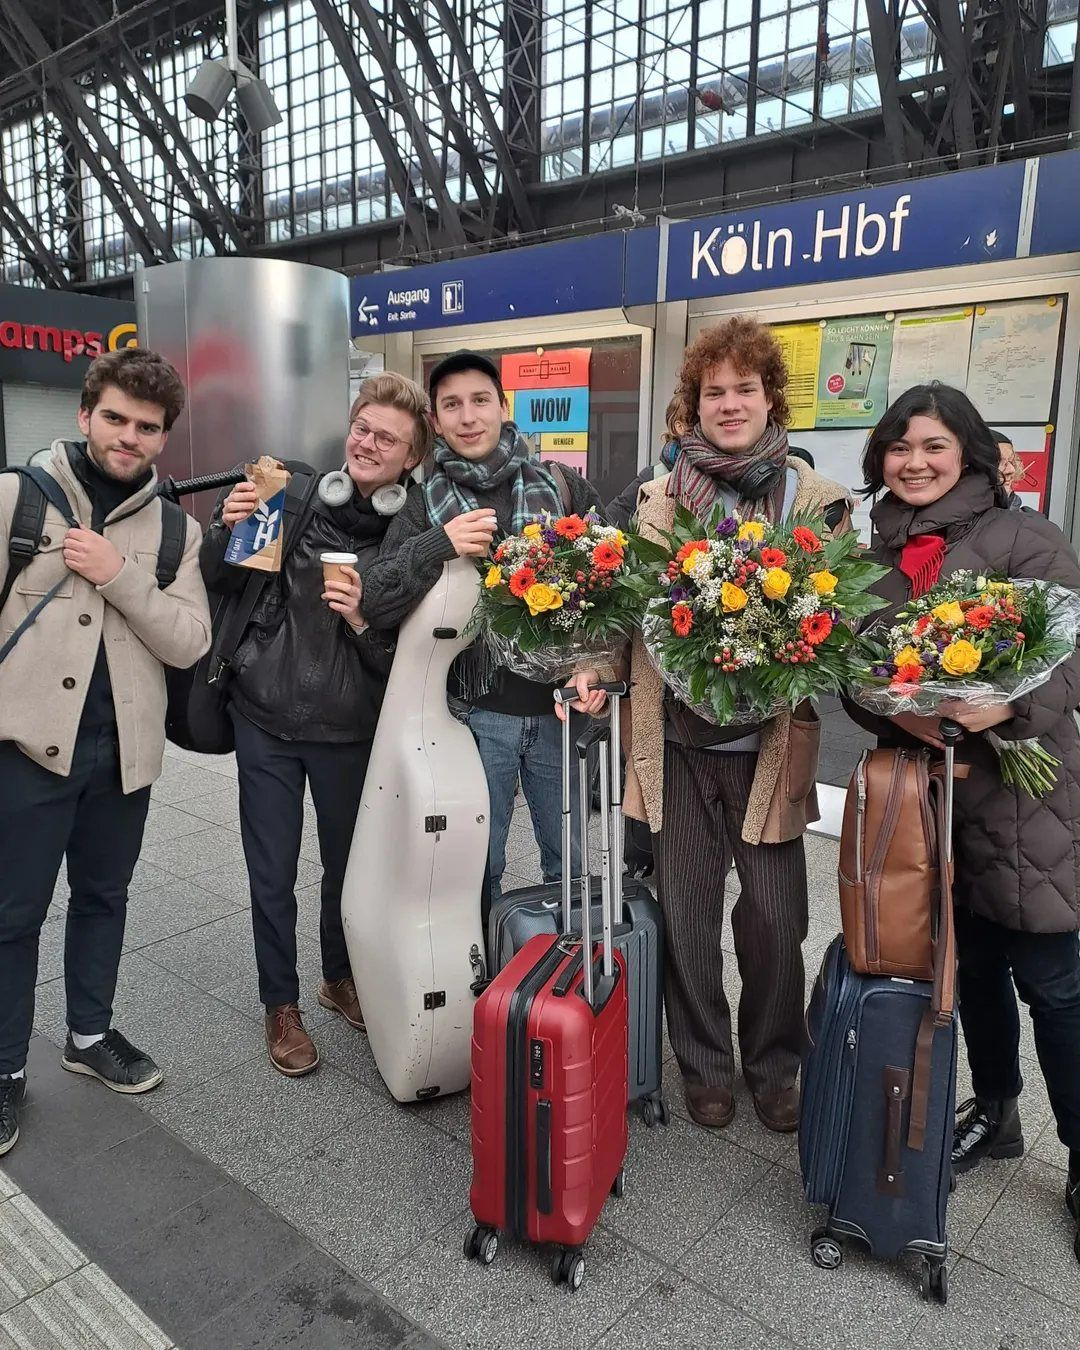
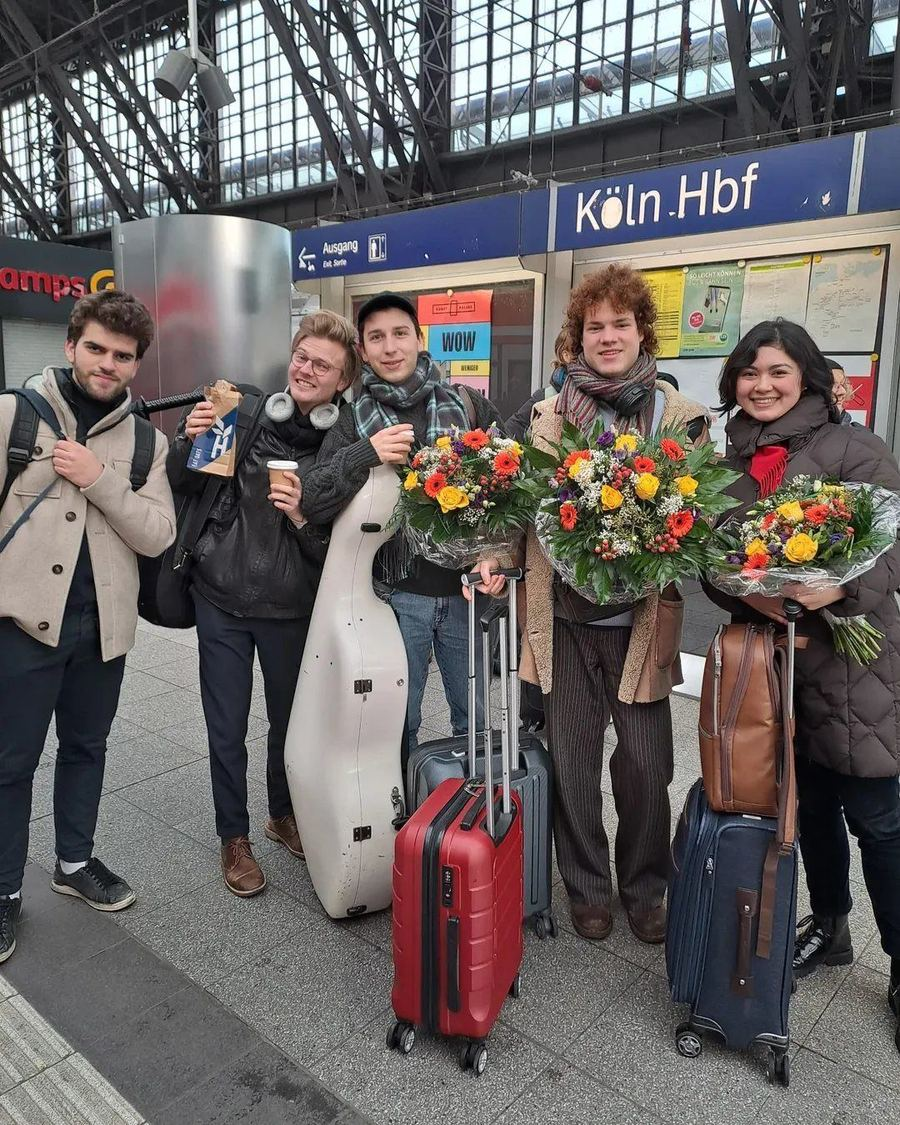
Stop Motion films, homepage quote from Third Coast Review, lighter portrait for phones, audit fixes
Claude-Session: https://claude.ai/code/session_019u7Kq4gBrnmXPFszSKhexq

Changed region(s): [[0.6222, 0.4044, 0.7778, 0.4978], [0.4667, 0.3733, 0.56, 0.4667], [0.84, 0.4356, 0.9333, 0.4978]]

diff --git a/public/prototype/dot/index.html b/public/prototype/dot/index.html
@@ -427,6 +427,11 @@ h3 { margin: 34px 0 12px; font-size: 15px; font-weight: 700; }
   .qcards { display: grid; grid-template-columns: repeat(3, minmax(0, 1fr)); gap: 12px; overflow: visible; margin: var(--row) 0; padding: 0; width: calc(100vw - 2 * var(--edge) - var(--rail) - var(--rail-gap)); max-width: calc(var(--maxw) - var(--rail) - var(--rail-gap)); }
   .qcard { width: auto; min-height: 250px; }
 }
+.p-films { list-style: none; margin: 36px 0 0; padding: 0; }
+.p-films li + li { margin-top: 18px; }
+.p-film { display: flex; align-items: center; gap: 16px; }
+.p-film b { display: block; font-weight: 500; font-size: var(--fs-body); }
+.p-film .muted { display: block; margin-top: 2px; font-size: var(--fs-label); }
 .p-aside { margin: 36px 0 0; padding: 20px 0 0; border-top: 1px solid color-mix(in srgb, currentColor 22%, transparent); }
 .p-aside p { margin: 10px 0 0; font-size: var(--fs-label); line-height: 1.6; opacity: 0.85; }
 .p-press { margin-top: 48px; }
@@ -454,6 +459,15 @@ h3 { margin: 34px 0 12px; font-size: 15px; font-weight: 700; }
   .railed.ab-sec > .ab-side { grid-column: 3; grid-row: 1 / span 3; align-self: start; position: sticky; top: calc(var(--bar) + 32px); margin: 0 0 0 var(--block); max-width: 420px; }
   .railed.ab-sec > .ab-side .ab-fig img, .railed.ab-sec > .ab-side .ph-img { aspect-ratio: 4 / 3; }
 }
+.ab-lead { max-width: 24em; text-wrap: pretty; }
+.ab-lead + .ab-lead2 { margin-top: 0.6em; }
+.ab-lead2 { color: color-mix(in srgb, var(--fg) 62%, var(--bg)); margin-bottom: 1.2em; }
+.ab-mid { margin: 20px 0 var(--row); font-size: var(--fs-body); line-height: 1.6; max-width: 34em; }
+.ab-qs { margin: 0 0 var(--head); }
+.ab-q { margin: 0; padding: 14px 0; border-top: 1px solid color-mix(in srgb, currentColor 16%, transparent); font-family: var(--serif); font-size: var(--fs-title); line-height: 1.2; letter-spacing: -0.01em; }
+.ab-q:last-child { border-bottom: 1px solid color-mix(in srgb, currentColor 16%, transparent); }
+.ab-q::first-letter { color: inherit; }
+@media (min-width: 900px) { .ab-q:nth-child(2) { padding-left: 12%; } }
 .ab-quote { margin: var(--head) 0 0; padding-left: 20px; border-left: 2px solid var(--accent); }
 .ab-quote p { margin: 0; font-family: var(--serif); font-size: var(--fs-title); line-height: 1.25; letter-spacing: -0.01em; }
 .ab-quote cite { display: block; margin-top: 10px; font-style: normal; font-size: var(--fs-label); opacity: 0.7; }
@@ -704,7 +718,7 @@ h3 { margin: 34px 0 12px; font-size: 15px; font-weight: 700; }
 <div id="home">
   <h1 class="sr-only">Oliver Herbert, cellist</h1>
   <div id="top" class="hero-space"></div>
-  <div class="frame hero-img curtain" data-tone="portrait"><img src="../img/hero.jpg" alt="Oliver Herbert with his cello">
+  <div class="frame hero-img curtain" data-tone="portrait"><img src="../img/hero.jpg" srcset="../img/hero-1600.jpg 1600w, ../img/hero.jpg 3000w" sizes="100vw" alt="Oliver Herbert with his cello">
     <a class="hero-next" href="#concerts"><span class="label">Next concert</span><span class="hn-what">1 Nov · Noe Music</span><span class="hn-where">San Francisco<svg width="18" height="12" viewBox="0 0 18 12" aria-hidden="true"><path d="M11 1 L16 6 L11 11 M16 6 H1" stroke="currentColor" stroke-width="1.6" fill="none"></path></svg></span></a>
   </div>
   <div class="sheet">
@@ -712,9 +726,10 @@ h3 { margin: 34px 0 12px; font-size: 15px; font-weight: 700; }
     <div class="railed">
     <span class="label rise lab">About</span>
     <div>
-    <p class="lead rise">Oliver Herbert is a cellist who moves between orchestras, chamber music and projects of his own. Alongside the cello classics, he performs the lesser-known and the new. His music-making often starts from a question: What is at the core of hearing and re-hearing? Where do musical worlds meet?</p>
+    <p class="lead rise ab-lead">Oliver Herbert is a cellist who moves between orchestras, chamber music and projects of his own.</p>
+    <p class="lead rise ab-lead ab-lead2">Alongside the cello classics, he performs the lesser-known and the new. His music-making often starts from a question: What is at the core of hearing and re-hearing? Where do musical worlds meet?</p>
     <p class="more-text rise">He appears as a soloist with conductors including Michael Tilson Thomas, Giancarlo Guerrero, Juanjo Mena and Reinhard Goebel, and in chamber music with artists such as Mitsuko Uchida, Janine Jansen and Tabea Zimmermann. His projects have brought composers such as Schnittke, Desenne and Crawford Seeger into focus, and he has premiered works by Helena Winkelman, Andrew Moses and others. He received a 2021 Avery Fisher Career Grant.</p>
-    <blockquote class="ab-quote rise"><p>&ldquo;Full-throated but never indulgent tone, crisp yet expressive phrasing.&rdquo;</p><cite>San Francisco Classical Voice</cite></blockquote>
+    <blockquote class="ab-quote rise"><p>&ldquo;The cello seems an extension of himself.&rdquo;</p><cite>Third Coast Review</cite></blockquote>
     <div class="btn-row rise"><button class="btn" type="button" id="ab-listen"><svg width="11" height="13" viewBox="0 0 12 14" aria-hidden="true"><path d="M1 1 L11 7 L1 13 Z" fill="currentColor"></path></svg>Listen</button><a class="btn" href="#biography" id="full-bio">Full biography<svg width="18" height="12" viewBox="0 0 18 12" aria-hidden="true"><path d="M11 1 L16 6 L11 11 M16 6 H1" stroke="currentColor" stroke-width="1.6" fill="none"></path></svg></a></div>
     </div>
     </div>
@@ -837,7 +852,7 @@ h3 { margin: 34px 0 12px; font-size: 15px; font-weight: 700; }
   <div class="railed ab-sec ">
     <span class="lab" aria-hidden="true"></span>
     <div class="bio">
-      <p class="lead rise">Oliver Herbert was born in 1997 in San Francisco. He grew up in a house full of music: a violinist mother, a timpanist father, grandparents at the piano. Much of what he does still comes from there: playing with and for other people, and following the music wherever it leads.</p>
+      <p class="lead rise ab-lead">Oliver Herbert was born in 1997 in San Francisco. He grew up in a house full of music: a violinist mother, a timpanist father, grandparents at the piano. Much of what he does still comes from there: playing with and for other people, and following the music wherever it leads.</p>
     </div>
   </div>
   <div class="railed ab-sec ">
@@ -845,9 +860,9 @@ h3 { margin: 34px 0 12px; font-size: 15px; font-weight: 700; }
     <div class="bio">
       <p class="rise">He started playing music on the violin and piano, then switched to the cello at seven. It took him a while to convince his parents to allow the switch, as they worried about the eventual cost of an extra seat on the airplane (perhaps there was some truth to that!). But he persisted, finding teachers Iris Pingel and later Peter Wyrick in San Francisco. He went on to study with Clive Greensmith at the Colburn School, with Carter Brey, Peter Wiley and Pamela Frank at the Curtis Institute of Music, and with Frans Helmerson at Kronberg Academy, graduating in 2026.</p>
     </div>
-    <aside class="ab-side">
+    <div class="ab-side">
       <figure class="ab-fig rise"><img src="../img/sf.jpg" alt="San Francisco" loading="lazy"><figcaption class="label muted">San Francisco</figcaption></figure>
-    </aside>
+    </div>
   </div>
   <div class="railed ab-sec ">
     <span class="label lab rise">With orchestras</span>
@@ -860,9 +875,9 @@ h3 { margin: 34px 0 12px; font-size: 15px; font-weight: 700; }
       <p class="rise">The repertoire runs from C.P.E. Bach and Haydn through Tchaikovsky to Schnittke, Lutos&lstrok;awski, Barber and John Williams.</p>
       <blockquote class="ab-quote rise"><p>&ldquo;Full-throated but never indulgent tone, crisp yet expressive phrasing.&rdquo;</p><cite>San Francisco Classical Voice</cite></blockquote>
     </div>
-    <aside class="ab-side">
+    <div class="ab-side">
       <figure class="ab-fig rise"><img src="../img/chrono-sfs.jpg" alt="With Michael Tilson Thomas and the San Francisco Symphony, 2019" loading="lazy"><figcaption class="label muted">With Michael Tilson Thomas and the San Francisco Symphony, 2019</figcaption></figure>
-    </aside>
+    </div>
   </div>
   <div class="railed ab-sec ">
     <span class="label lab rise">Among musicians</span>
@@ -873,9 +888,9 @@ h3 { margin: 34px 0 12px; font-size: 15px; font-weight: 700; }
       <div class="names rise"><span class="label muted">With</span><ul><li>Mitsuko Uchida</li><li>Janine Jansen</li><li>Jonathan Biss</li><li>Tabea Zimmermann</li></ul></div>
       </div>
     </div>
-    <aside class="ab-side">
+    <div class="ab-side">
       <figure class="ab-fig rise"><img src="../img/chrono-uchida.jpg" alt="With Mitsuko Uchida" loading="lazy"><figcaption class="label muted">With Mitsuko Uchida</figcaption></figure>
-    </aside>
+    </div>
   </div>
   <div class="railed ab-sec ">
     <span class="label lab rise">Alone with the cello</span>
@@ -883,9 +898,9 @@ h3 { margin: 34px 0 12px; font-size: 15px; font-weight: 700; }
       <p class="rise">Some of the most intense concerts have the fewest people on stage: the six Bach suites in a single program, the complete Beethoven sonatas across one series in Chicago, Beethoven on a fortepiano with Arash Rokni. At the Lutos&lstrok;awski Competition he received a special award for his Sacher Variation, and at the Klein Competition the prize for the best Bach. Solo cello works by Dawn Avery, Xenakis, Dutilleux, Hindemith, and many more find a spotlight in his solo repertoire, in addition to several world premiere performances.</p>
       <blockquote class="ab-quote rise"><p>&ldquo;Deeply moving vocal inflections in extreme ranges.&rdquo;</p><cite>Philadelphia Inquirer</cite></blockquote>
     </div>
-    <aside class="ab-side">
+    <div class="ab-side">
       <figure class="ab-fig rise"><div class="ph-img" aria-hidden="true"><span class="label">Photo to come</span></div><figcaption class="label muted">[A recital photo]</figcaption></figure>
-    </aside>
+    </div>
   </div>
   <div class="railed ab-sec">
     <span class="label lab rise">Projects of his own</span>
@@ -908,18 +923,18 @@ h3 { margin: 34px 0 12px; font-size: 15px; font-weight: 700; }
     <div class="bio">
       <p class="rise">He has learned a great deal from musicians such as Reinhard Goebel, Andreas Staier, and Marcel Ponseele and Il Gardellino. Growing up, his formative teacher Peter Wyrick introduced him to figures like Anner Bylsma from an early age, which made a deep impression. For him, period instruments have never been about being &ldquo;correct&rdquo;. They are a way in: to the core of a piece&rsquo;s sound, and to the deeper layers of meaning within it.</p>
     </div>
-    <aside class="ab-side">
+    <div class="ab-side">
       <figure class="ab-fig rise"><div class="ph-img" aria-hidden="true"><span class="label">Photo to come</span></div><figcaption class="label muted">[With Il Gardellino, or on period instruments]</figcaption></figure>
-    </aside>
+    </div>
   </div>
   <div class="railed ab-sec ">
     <span class="label lab rise">Across disciplines</span>
     <div class="bio">
       <p class="rise">Across disciplines, he has collaborated with Kyle Marshall Choreography on the music of Julius Eastman at the New World Symphony, and on multimedia work with filmmaker Mimi Pfahler. He has also been diving into stop motion animation of his own, at the intersection of visual art and music. For the 2026 Kronberg Festival he created a program centered on courage with actor Michael Rotschopf.</p>
     </div>
-    <aside class="ab-side">
+    <div class="ab-side">
       <figure class="ab-fig rise"><div class="ph-img" aria-hidden="true"><span class="label">Photo to come</span></div><figcaption class="label muted">[With Kyle Marshall Choreography, or a stop motion still]</figcaption></figure>
-    </aside>
+    </div>
   </div>
   <div class="railed ab-sec top">
     <span class="label lab rise">On record</span>
@@ -933,18 +948,18 @@ h3 { margin: 34px 0 12px; font-size: 15px; font-weight: 700; }
       <p class="rise">He plays primarily on a Guadagnini cello that once belonged to the legendary cellist Antonio Janigro, on loan from the Janigro family.</p>
       <dl class="spec rise"><dt>Cello</dt><dd>G. B. Guadagnini, ex-Janigro</dd><dt>Bows</dt><dd>Jean Dominique Adam, Michel Groppe</dd><dt>Baroque piccolo cello</dt><dd>Chappuy, 1776</dd></dl>
     </div>
-    <aside class="ab-side">
+    <div class="ab-side">
       <figure class="ab-fig rise"><div class="ph-img" aria-hidden="true"><span class="label">Photo to come</span></div><figcaption class="label muted">[The Guadagnini]</figcaption></figure>
-    </aside>
+    </div>
   </div>
   <div class="railed ab-sec ">
     <span class="label lab rise">Current adventures</span>
     <div class="bio">
       <p class="rise">Oliver lives in Berlin with his boyfriend, though he can frequently be found in the US and other parts of the world for musical projects. Much of his time is spent dreaming up new musical and travel adventures, cooking, or unwinding from intense concert evenings.</p>
     </div>
-    <aside class="ab-side">
+    <div class="ab-side">
       <figure class="ab-fig rise"><div class="ph-img" aria-hidden="true"><span class="label">Photo to come</span></div><figcaption class="label muted">[Berlin, or travels]</figcaption></figure>
-    </aside>
+    </div>
   </div>
   <p class="small-print on-line rise">Avery Fisher Career Grant, 2021 &middot; Verbier Festival Jean-Nicolas Firmenich Prize &middot; Orpheum Foundation program for young soloists, 2025 &middot; Featured on PBS, NPR&rsquo;s From the Top, WQXR, WDR, Deutschlandfunk, HR and ARD</p>
   <div class="railed">
@@ -1096,8 +1111,7 @@ h3 { margin: 34px 0 12px; font-size: 15px; font-weight: 700; }
     {"id": "tica", "title": "TICA Festival", "sub": "Kwai Tsing Theatre, Hong Kong · with Haruka Fujii, percussion", "img": "tica", "ratio": "1 / 1", "q": "What happens when a cello and a thundersheet listen to each other?", "text": ["A concert I curated for Toolbox Percussion's TICA Festival in Hong Kong, with percussionist Haruka Fujii. The program ran from Bach to the world premiere of Andrew Moses' Ecstatic Immanence, a piece I commissioned, written for me.", "Andrew's music puts everyone in the room into direct contact with the present moment. It also involved some very memorable tech elements, including a live feedback loop between the cello and thundersheet: aspects of reflection between human and technology, and the synergy between the two. Needless to say I'm already itching to perform it again."]},
     {"id": "raderberg", "title": "Raderbergkonzerte", "sub": "Deutschlandfunk, Cologne", "img": "raderberg", "ratio": "4 / 5", "q": "Where do the musical worlds of the Americas and Europe meet?", "text": ["A program for Deutschlandfunk's Raderbergkonzerte in Cologne: Desenne, Ruth Crawford Seeger, Villa-Lobos, and Fauré. There has been such a rich history of exchange between the Americas and Europe, where those musical worlds blur into each other. The program was created in the spirit of celebrating some of those threads. It was an intensive, fun week with a really great group."]},
     {"id": "sf", "title": "San Francisco", "sub": "Where it began", "img": "sf", "ratio": "4 / 3", "text": ["A little note about the place I grew up in: San Francisco! New ideas are embraced and actively explored there, a spirit of innovation that gives the place its dynamic energy. At the same time, the transcendental natural beauty of the city always puts that energy in context. When people visit, I enjoy explaining that one really doesn't need to spend money to have a magical time there: catching a sunset, spending time in the parks or by the ocean, or exploring the views across the hills. The microclimates allow for a pretty diverse journey in a single day. I grew up in the fog, but the other side of the city gets much more sun. Each neighborhood has its own feeling.", "I grew up in a family of musicians, my mom a violinist (my first music teacher on violin), and my dad a timpanist. My grandparents are pianists, and I took piano lessons throughout my childhood with my grandma, who at the time lived in Marin across the Golden Gate Bridge. I consider myself lucky to have had so much music growing up, though it was never really forced on me. It was more a way of life, as making music was just such a norm in my family's culture.", "I discovered the cello when I was about 6 years old, and was totally fixated on the deep sound and also somehow the way it looked. When I begged my parents to switch from violin, their only hesitation was a funny musician parent's sense of practicality: they knew that if I became a cellist I'd have to buy two seats on the airplane! So essentially I had to convince them I was serious enough, and eventually succeeded.", "My deeper love for music itself bloomed a bit later. In my early teenage years, with the help of the internet, I started taking deep dives into cello recordings and research about composers and got hooked on the feeling of making musical discoveries. The further I dug, the more passionate I became about underappreciated or unknown works, hidden gems. Why is this great piece never played? That excitement led to my first solo appearance with an orchestra, Bloch's Schelomo at 15, and around the same time my obsession with Britten's Third Cello Suite led me to perform it on the composer's 100th birthday at the Castro Theatre.", "My philosophy is that great art is conjured from a creative place beyond ourselves and beyond time; a place we all have access to now. Sometimes a seed planted years ago will finally sprout and a new project arrives instantaneously. Though I'm now living on the other side of the world, San Francisco is a place that always remains at the center."]},
-    { id: 'stop', title: 'Stop Motion', sub: 'Short films', img: null, ratio: '4 / 3',
-      text: ["A parallel practice in image-making."] },
+    {"id": "stop", "title": "Stop Motion", "sub": "Short films", "img": null, "ratio": "4 / 3", "text": ["A parallel practice in image-making. Most of these began during lockdown in 2020: arranging, recording and animating each one myself."], "films": [["The Snow is Dancing", "Debussy, Children’s Corner · animated with cornflour and water · 2020", "JtMpzerI1Hs"], ["Felt, unfinished…", "Fauré, Cello Sonata No. 1, II · 2025", "jim8aH13tD8"], ["This is what happens when I leave my house for groceries", "2020", "h0xWYDtLZEM"], ["30 Seconds of Couperin", "Les Barricades Mystérieuses · 2020", "jXX-IXwiUp0"]]},
     { id: 'timeline', title: 'From the beginning', sub: 'San Francisco to now', img: 'timeline', ratio: '3 / 2', chrono: true, text: [] }
   ];
 
@@ -1283,6 +1297,7 @@ h3 { margin: 34px 0 12px; font-size: 15px; font-weight: 700; }
       p.text.map(function (t) { return '<p class="rise">' + esc(t) + '</p>'; }).join('') +
       (p.extra ? '<div class="p-extra rise"><img src="../img/' + p.extra + '.jpg" alt="' + esc(p.title) + '">' + (p.cap ? '<span class="p-cap muted">' + esc(p.cap) + '</span>' : '') + '</div>' : '') +
       (p.watch ? '<a class="p-watch film rise" href="' + YT + p.watch[1] + '" target="_blank" rel="noopener"><span class="dot">' + TRI + '</span><span>' + esc(p.watch[0]) + '</span></a>' : '') +
+      (p.films ? '<ol class="p-films">' + p.films.map(function (f) { return '<li class="rise"><a class="p-film film" href="' + YT + f[2] + '" target="_blank" rel="noopener" data-title="' + esc(f[0]) + '"><span class="dot">' + TRI + '</span><span><b>' + esc(f[0]) + '</b><span class="muted">' + esc(f[1]) + '</span></span></a></li>'; }).join('') + '</ol>' : '') +
       (p.aside ? '<blockquote class="p-aside rise"><span class="label muted">' + esc(p.aside[0]) + '</span><p>' + esc(p.aside[1]) + '</p></blockquote>' : '') +
       (p.press ? '<div class="p-press">' + p.press.map(function (q) { return '<figure class="rise"><blockquote>&ldquo;' + esc(q[0]) + '&rdquo;</blockquote><figcaption class="label muted">' + esc(q[1]) + '</figcaption></figure>'; }).join('') + '</div>' : '') +
       '</div></div><div class="wrap">' + '<div class="page-end rise"><button class="pe-home pe-explore" type="button"><svg width="16" height="12" viewBox="0 0 16 12" aria-hidden="true"><path d="M7 1 L2 6 L7 11 M2 6 H16" stroke="currentColor" stroke-width="1.5" fill="none"></path></svg><span>Explore</span></button><button class="p-next loop-next" data-id="' + next.id + '"><span class="label muted">Next</span>' + loopLine(next.title) + '</button></div></div>';
